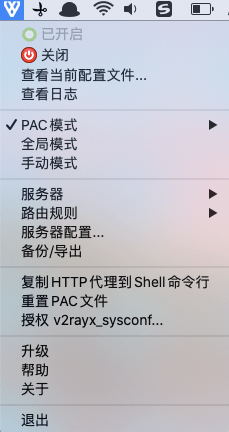
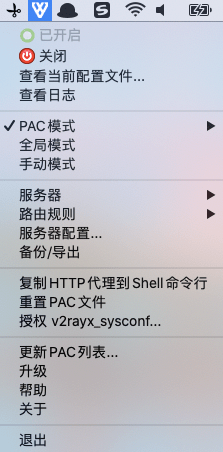
add update pac list

diff --git a/V2RayX/AppDelegate.m b/V2RayX/AppDelegate.m
@@ -513,6 +513,89 @@ static AppDelegate *appDelegate;
     [[NSWorkspace sharedWorkspace] openURL:[NSURL URLWithString:@"https://www.v2ray.com"]];
 }
 
+#pragma mark Update PAC List
+- (IBAction)updatePacList:(NSMenuItem *)sender {
+    
+    NSLog(@"update pac list");
+    
+    NSURL *url = [NSURL URLWithString:@"https://gitlab.com/gfwlist/gfwlist/raw/master/gfwlist.txt"];
+    NSURLSessionDataTask *task = [[NSURLSession sharedSession] dataTaskWithURL:url completionHandler:^(NSData * _Nullable data, NSURLResponse * _Nullable response, NSError * _Nullable error) {
+        @try {
+            
+            NSData *decodeData = [[NSData alloc] initWithBase64EncodedData:data options:NSDataBase64DecodingIgnoreUnknownCharacters];
+            NSString *result = [[NSString alloc] initWithData:decodeData encoding:NSUTF8StringEncoding];
+            NSArray *pacArray = [result componentsSeparatedByString:@"\n"];
+            NSMutableArray *urlArray = [NSMutableArray array];
+            for (NSString *url in pacArray) {
+                if ([url hasPrefix:@"||"]) {
+                    NSString *domain = [url stringByReplacingOccurrencesOfString:@"||" withString:@""];
+                    if (![urlArray containsObject:domain]) {
+                        [urlArray addObject:domain];
+                    }
+                }else if ([url hasPrefix:@"."]){
+                    NSString *domain = [url substringFromIndex:1];
+                    if (![urlArray containsObject:domain]) {
+                        [urlArray addObject:domain];
+                    }
+                }
+            }
+            
+            NSMutableString *pacJs = [NSMutableString string];
+            NSString *line = @"var V2Ray = \"SOCKS5 127.0.0.1:1081; SOCKS 127.0.0.1:1081; DIRECT;\"\n\n";
+            NSString *line1 = @"var domains = [\n";
+            [pacJs appendString:line];
+            [pacJs appendString:line1];
+            
+            for (NSString *urlString in urlArray) {
+                NSString *url = [NSString stringWithFormat:@"    \"%@\",\n",urlString];
+                [pacJs appendString:url];
+            }
+            NSString *line10 = @"];\n";
+            NSString *line2 = @"function FindProxyForURL(url, host) {\n";
+            NSString *line3 = @"    for (var i = domains.length - 1; i >= 0; i--) {\n";
+            NSString *line4 = @"        if (dnsDomainIs(host, domains[i])) {\n";
+            NSString *line5 = @"            return V2Ray\n";
+            NSString *line6 = @"        };\n";
+            NSString *line7 = @"    };\n";
+            NSString *line8 = @"    return \"DIRECT\";\n";
+            NSString *line9 = @"}\n";
+            [pacJs appendString:line10];
+            [pacJs appendString:line2];
+            [pacJs appendString:line3];
+            [pacJs appendString:line4];
+            [pacJs appendString:line5];
+            [pacJs appendString:line6];
+            [pacJs appendString:line7];
+            [pacJs appendString:line8];
+            [pacJs appendString:line9];
+            
+            NSString *pacPath = [NSString stringWithFormat:@"%@/Library/Application Support/V2RayX/pac/%@",NSHomeDirectory(), @"gfwlist.js"];
+
+            NSError *error = nil;
+            [pacJs writeToFile:pacPath atomically:YES encoding:NSUTF8StringEncoding error:&error];
+            
+            NSUserNotification *notification = [[NSUserNotification alloc] init];
+            notification.title = @"V2RayX";
+            if (error) {
+                notification.subtitle = NSLocalizedString(@"gfwlist update failed!", @"gfwlist 更新失败！");
+            }else{
+                notification.subtitle = NSLocalizedString(@"gfwlist update completed!", @"gfwlist 更新成功！");
+                [self updatePacMenuList];
+            }
+            [[NSUserNotificationCenter defaultUserNotificationCenter]  deliverNotification:notification];
+            
+            
+        } @catch (NSException *exception) {
+            
+        } @finally {
+            
+        }
+    }];
+    [task resume];
+    
+}
+
+
 // v2rayx status part
 
 // back up system proxy state when V2RayX starts to take control of
